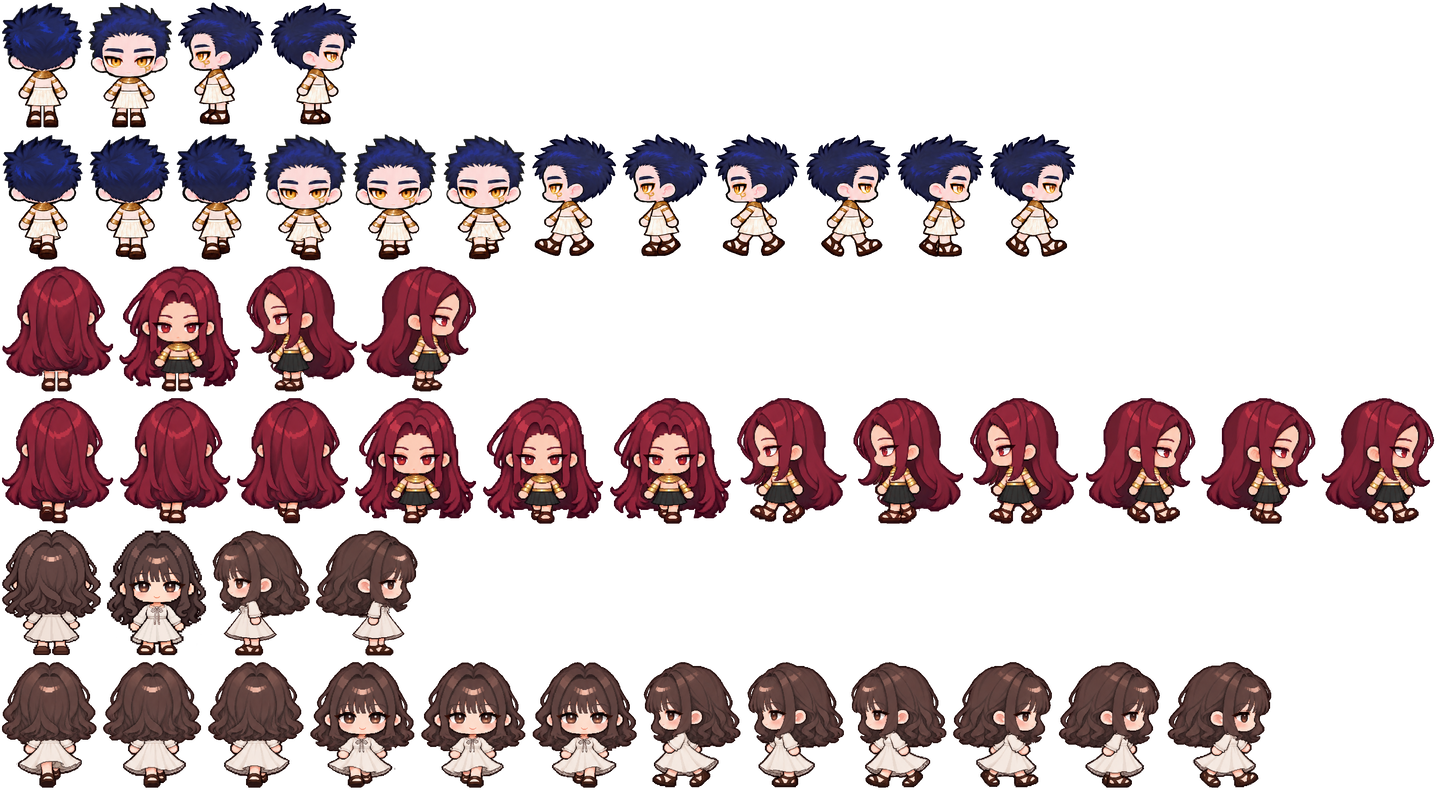
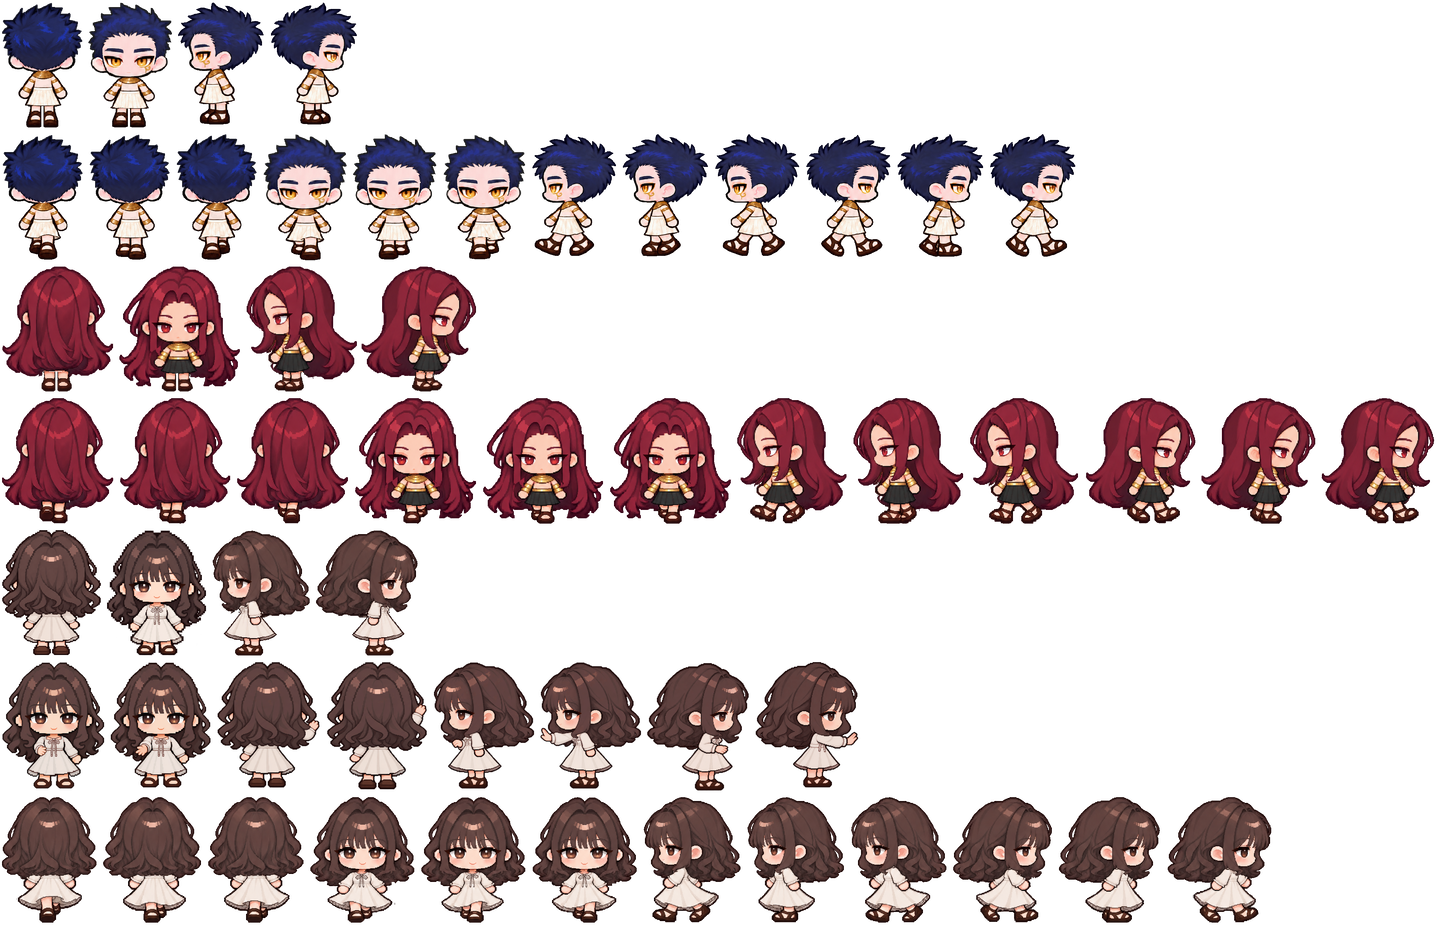
0.9.26 소망 상호작용 동작: 말 걸기 때 대상 쪽으로 돌아 손을 뻗고 닿은 뒤 카드 열림. 패커에 동작 묶음(ACTIONS) 추가
Claude-Session: https://claude.ai/code/session_01VEprA6JeTcQVX6tKD4oAcT

diff --git a/src/world/render.js b/src/world/render.js
@@ -6,6 +6,7 @@
 import { T, paintMap, rnd } from './paint.js';
 import { drawReferenceScenes } from './reference-scene.js';
 import { DATA, spriteFile } from '../core/data.js';
+const HOLD_MS = 220; // how long the last frame of an action (the hand touching) stays before standing again
 
 // the land changes with the season: the Nile runs high and dark in Akhet, the fields are green in Peret and gold in Shemu
 const SEASON = {
@@ -78,6 +79,7 @@ export class Renderer {
     // offsets (source walk-cell pixels); nothing else bobs. Returns false for a look without these pictures.
     // Two packings of the same frames: the phone-size one when it is big enough for this zoom (drawn nearly
     // 1:1, so it stays crisp), else the large one once it has loaded.
+    // An action (anim.act) shows its frames in order, the last one held HOLD_MS, then the idle again.
     motionPerson(g, look, x, y, dir, z, anim) {
         const m = this.motion.get(look);
         if (!m) return false;
@@ -87,7 +89,13 @@ export class Renderer {
         if (!a) return false;
         const image = DATA.spriteArt[a.file];
         let r = a.idle[dir] || a.idle.down, ox = 0, oy = 0;
-        if (anim?.moving) {
+        // an action (anim.act = { name, t } seconds since it started) plays its frames once, then the idle shows
+        const act = anim?.act && a.acts?.[anim.act.name]?.[dir], play = m.actPlay?.[anim?.act?.name];
+        if (act && play) {
+            let t = anim.act.t * 1000, i = 0;
+            while (i < act.length - 1 && t >= play.frameMs[i]) t -= play.frameMs[i++];
+            if (anim.act.t * 1000 < play.frameMs.reduce((x, y) => x + y, 0) + HOLD_MS) r = act[i];
+        } else if (anim?.moving) {
             const k = Math.floor((anim.walkT || 0) * 1000 / m.frameMs) % m.sequence.length;
             r = (a.walk[dir] || a.walk.down)[m.sequence[k]];
             [ox, oy] = m.offsets[dir]?.[k] || [0, 0];
@@ -185,7 +193,8 @@ export class Renderer {
         }
         // things lying on the ground first, then people and standing things back to front
         if (!fullScene) for (const t of things) if (FLAT.has(t.sprite)) this.sprite(g, t, Math.round(t.x * ts - cx), Math.round(t.y * ts - cy), z, time);
-        const ppl = [...people, { look: 'somang', x: player.x, y: player.y, dir: player.dir, step: player.moving ? player.step : 0, moving: player.moving, walkT: player.walkT },
+        const ppl = [...people, { look: 'somang', x: player.x, y: player.y, dir: player.dir, step: player.moving ? player.step : 0, moving: player.moving, walkT: player.walkT,
+            act: player.act && !player.moving ? { name: player.act.name, t: (performance.now() - player.act.at) / 1000 } : null },
             ...things.filter(t => !FLAT.has(t.sprite)).map(t => ({ thing: t, x: t.x, y: t.y }))];
         ppl.sort((a, b) => a.y - b.y);
         if (!fullScene) for (const p of ppl) {

diff --git a/src/ui/window.js b/src/ui/window.js
@@ -10,7 +10,7 @@ import { getState, saveState } from '../core/state.js';
 import { syncFromChat } from '../core/tracker.js';
 import { bindPad, input, startInput, stopInput } from '../world/input.js';
 import { getMap } from '../world/map.js';
-import { feet, follower, placePlayer, player, rememberPosition, stand, stepPlayer } from '../world/player.js';
+import { feet, follower, placePlayer, playAct, player, rememberPosition, stand, stepPlayer } from '../world/player.js';
 import { thingsOn } from '../world/things.js';
 import { MODE, Renderer } from '../world/render.js';
 import { buildHud, placeBubble, setTab, shortDate, todayBody, updateHud } from './hud.js';
@@ -285,7 +285,8 @@ function frame(t) {
         }
     } else stand();
     // the battery: draw only as often as something on screen changes
-    const fps = cardOpen() ? FPS.card : player.moving ? FPS.walk : FPS.still;
+    const acting = player.act && performance.now() - player.act.at < 800;
+    const fps = cardOpen() ? FPS.card : player.moving || acting ? FPS.walk : FPS.still;
     if (t - drawnAt >= 1000 / fps - 2) { drawnAt = t; draw(t); }
     raf = requestAnimationFrame(frame);
 }
@@ -296,6 +297,14 @@ function talk() {
     if (cardOpen()) { closeTopCard(); return; }
     lookAround();
     if (!near) { toast(root, '가까이에 말 걸 곳이 없어'); return; }
+    // she turns to it and reaches out (the interaction picture), and what it does follows once her hand is there
+    if (player.act && performance.now() - player.act.at < ACT_MS) return;
+    const target = near;
+    playAct('interact', target.x + 0.5, target.y + 0.8);
+    setTimeout(() => { if (mode === 'open' && !cardOpen()) use(target); }, ACT_MS);
+}
+const ACT_MS = 260;
+function use(near) {
     if (near.kind === 'spot') {
         const act = spotActs.get(near.id);
         if (act) { act(near, ui, map); return; }

diff --git a/src/world/player.js b/src/world/player.js
@@ -34,6 +34,12 @@ const blocked = (map, x, y) => map.solidAt(x + FOOT.x0, y + FOOT.y0) || map.soli
 
 // standing still: the idle picture, and the next walk starts on its first pose
 export function stand() { player.moving = false; player.walkT = 0; }
+// an action picture (looks.somang.motion.acts): turns her to face (tx, ty) and plays it once; walking ends it
+export function playAct(name, tx, ty) {
+    const f = feet(), dx = tx - f.x, dy = ty - f.y;
+    if (Math.hypot(dx, dy) > 0.05) player.dir = Math.abs(dx) > Math.abs(dy) ? (dx > 0 ? 'right' : 'left') : (dy > 0 ? 'down' : 'up');
+    player.act = { name, at: performance.now() };
+}
 // one frame of movement; dx, dy in -1…1. Slides along walls instead of sticking.
 export function stepPlayer(map, dx, dy, dt) {
     const len = Math.hypot(dx, dy);
@@ -46,6 +52,7 @@ export function stepPlayer(map, dx, dy, dt) {
     // sliding along a wall still walks; pressed flat against it she stands, facing the way pressed
     player.moving = Math.hypot(player.x - x0, player.y - y0) > 1e-4;
     if (!player.moving) { player.walkT = 0; return; }
+    player.act = null;
     player.walkT += dt;
     player.step += dt * 8;
     const last = trail[trail.length - 1];

diff --git a/src/core/settings.js b/src/core/settings.js
@@ -2,7 +2,7 @@
 
 import { ctx } from './st.js';
 
-export const VERSION = '0.9.25';
+export const VERSION = '0.9.26';
 export const MODULE = 'sand_feather';
 export const PROMPT_KEY = 'sand_feather_world';
 export const UI_THEMES = [

diff --git a/tools/art/pack-trio-motion.py b/tools/art/pack-trio-motion.py
@@ -2,6 +2,7 @@
 # data/art/characters/trio-motion.png, and writes the frame table into data/sprites.json (looks.<who>.motion).
 # Nothing is redrawn: each frame is the approved picture, scaled with one uniform factor per state so the
 # character's visible height is the same standing and walking (idle576 source px, walk 330 → VISIBLE atlas px).
+# Approved action sets (ACTIONS) go into the same atlas as looks.<who>.motion.acts[action][dir][frame].
 # The source files and the manifest are read only; the old pocket atlas (townsman) is left alone.
 import hashlib, json, os
 from PIL import Image
@@ -64,8 +65,37 @@ def pack(frames, visible, out):
             rect = [*place[f['id']], piece.width, piece.height, *pivot]
             if f['state'] == 'idle': idle[f['gameDirection']] = rect
             else: walk[f['gameDirection']][f['phase']] = rect
-        tables[who] = {'file': out, 'visible': visible, 'idle': idle, 'walk': walk}
+        acts = {}
+        for f, piece, pivot in pieces:
+            if f['character'] != who or f['state'] in ('idle', 'walk'): continue
+            rect = [*place[f['id']], piece.width, piece.height, *pivot]
+            acts.setdefault(f['state'], {}).setdefault(f['gameDirection'], {})[f['phase']] = rect
+        acts = {st: {d: [ph[i] for i in sorted(ph)] for d, ph in byd.items()} for st, byd in acts.items()}
+        tables[who] = {'file': out, 'visible': visible, 'idle': idle, 'walk': walk, **({'acts': acts} if acts else {})}
     return tables
+
+
+# approved action sets packed beside the base 48 (same canvas, pivot and reference height as the idle)
+ACTIONS = [os.path.join(ROOT, 'docs', 'art', 'chibi-refresh', 'interaction-somang-v172', 'manifest.json')]
+
+
+def action_frames():
+    frames, playback = [], {}
+    for mp in ACTIONS:
+        am = json.load(open(mp))
+        if not am.get('artApproved'): raise SystemExit(f'not approved: {mp}')
+        base = os.path.dirname(mp); dmap = am['directionMap']
+        for f in am['files']:
+            path = os.path.join(base, f['path'])
+            data = open(path, 'rb').read()
+            assert hashlib.sha256(data).hexdigest() == f['sha256'], path
+            bb = Image.open(path).getchannel('A').getbbox()
+            frames.append({'id': f"{f['character']}.{am['action']}.{dmap[f['direction']]}.{f['frame']}", 'character': f['character'],
+                           'state': am['action'], 'gameDirection': dmap[f['direction']], 'phase': f['frame'],
+                           'path': os.path.relpath(path, ROOT), 'referenceVisibleHeight': am['referenceVisibleHeight'],
+                           'alphaBounds': list(bb), 'pivot': am['anchor']['position']})
+        playback[am['action']] = {'frameMs': am['playback']['durationMs'], 'loop': am['playback']['loop']}
+    return frames, playback
 
 
 def main():
@@ -79,8 +109,9 @@ def main():
     for f in frames:
         data = open(os.path.join(ROOT, f['path']), 'rb').read()
         assert hashlib.sha256(data).hexdigest() == f['sha256'], f['id']
-    big = pack(frames, VISIBLE, 'art/characters/trio-motion.png')
-    small = pack(frames, SMALL, 'art/characters/trio-motion-small.png')
+    extra, playback = action_frames()
+    big = pack(frames + extra, VISIBLE, 'art/characters/trio-motion.png')
+    small = pack(frames + extra, SMALL, 'art/characters/trio-motion-small.png')
     sprites_path = os.path.join(ROOT, 'data', 'sprites.json')
     sprites = json.load(open(sprites_path))
     for who in ['set', 'somang', 'horus']:
@@ -95,6 +126,9 @@ def main():
             # the same frames packed at phone size: drawn nearly 1:1 at a phone's zoom, so they stay crisp
             'small': small[who],
         }
+        if b.get('acts'):
+            sprites['looks'][who]['motion']['acts'] = b['acts']
+            sprites['looks'][who]['motion']['actPlay'] = {k: v for k, v in playback.items() if k in b['acts']}
     with open(sprites_path, 'w') as fh:
         fh.write(compact(json.dumps(sprites, ensure_ascii=False, indent=1)) + '\n')
 

diff --git a/docs/OPUS-HANDOFF.md b/docs/OPUS-HANDOFF.md
@@ -18,7 +18,7 @@
 ## 저장소, 버전, 검증
 
 - 저장소 https://github.com/yigasda/SandAndFeather, 작업 브랜치 `main`. 아스트라도 main에 올리므로 커밋 전에 받아서 합친다. 남의 작업을 강제 푸시로 덮지 않는다.
-- 버전은 `manifest.json`의 `version`과 `src/core/settings.js`의 `VERSION`을 같이 올린다. 지금은 **0.9.25**이다. 올릴 때 `CHANGELOG.md` 맨 위에 한 줄을 추가하고, README의 "현재 버전" 줄도 고친다. README에는 버전 내역을 쌓지 않는다.
+- 버전은 `manifest.json`의 `version`과 `src/core/settings.js`의 `VERSION`을 같이 올린다. 지금은 **0.9.26**이다. 올릴 때 `CHANGELOG.md` 맨 위에 한 줄을 추가하고, README의 "현재 버전" 줄도 고친다. README에는 버전 내역을 쌓지 않는다.
 - 검증 스크립트는 `tools/art/`에 있다.
   - `verify-full-map.cjs`: 옴보스 전체맵 낮밤 픽셀 일치와 이동
   - `verify-cozy-ui.cjs`: 포근한 테마 UI
@@ -46,7 +46,7 @@
 
 | 무엇 | 아트 상태 | 게임에 넣을 때 할 일 |
 |---|---|---|
-| (없음) | 셋소호 최종 48장은 0.9.24에 적용했다. 다음은 아스트라 계획 2단계의 상호작용·생활 동작 | 새 동작이 오면 `final/manifest.json` 형식으로 받아 패커에 상태를 추가한다 |
+| 다음 동작(줍기, 텃밭…) | 상호작용(소망 172)은 0.9.26에 적용했다 | 채택된 동작 manifest를 `pack-trio-motion.py`의 `ACTIONS`에 더하면 `looks.<who>.motion.acts[동작][방향][프레임]`과 `actPlay`(프레임 시간)로 같은 아틀라스에 묶인다. 재생은 `player.playAct(name, x, y)`(대상 쪽으로 돌아서 한 번, 마지막 장 220ms 머문 뒤 정지), 그리는 쪽은 `render.js motionPerson`의 `anim.act`. 동작마다 어디서 부를지 정해 연결한다 |
 
 **적용할 때마다:** 출구 31곳 걷기, 깊은 입구 실제 동선, 낮밤, 폰 화면 확인을 다시 하고, 검증 스크립트 세 개를 돌린다. 기록은 해당 기록 문서에 쓰고, 이 문서의 표를 고친다.
 

diff --git a/CHANGELOG.md b/CHANGELOG.md
@@ -2,6 +2,8 @@
 
 README에서 옮긴 버전별 변경 내역이다. 위가 최신이다. 지금 상태는 [README](README.md)와 [오푸스 인수인계](docs/OPUS-HANDOFF.md)를 본다.
 
+**0.9.26:** 소망 상호작용 동작(172, 4방향 × 2장)을 넣었다. 말 걸기를 누르면 소망이 대상 쪽으로 돌아서 손을 뻗고(0.15초씩), 손이 닿은 뒤 카드가 열린다. 걸으면 바로 끝난다.
+
 **0.9.25:** 호루스 비율 수정본(173: 머리 104%, 몸통 폭 96%·높이 94%, 다리·신발 그대로) 16장을 게임에 넣었다. 카드 전신 그림과 새 동작 그리기 가이드도 새 호루스로 다시 만들었다.
 
 **0.9.24:** 셋소호 최종 베이스 스프라이트 48장(정지 12장 + 걷기 36장, `docs/art/chibi-refresh/final/`)을 게임에 넣었다. 이제 서 있을 때도 새 그림체라 정지와 걷기 그림체가 같다. 호루스는 짧고 두툼한 새 머리다.

diff --git a/README.md b/README.md
@@ -2,7 +2,7 @@
 
 세트·호루스 RP 채팅 옆에서 돌아가는 이집트 오픈월드 게임이다. SillyTavern 확장으로 동작한다.
 
-**현재 버전 0.9.25.** 버전별 변경 내역은 [CHANGELOG.md](CHANGELOG.md)에 있다.
+**현재 버전 0.9.26.** 버전별 변경 내역은 [CHANGELOG.md](CHANGELOG.md)에 있다.
 
 ## 작업자는 여기부터
 
